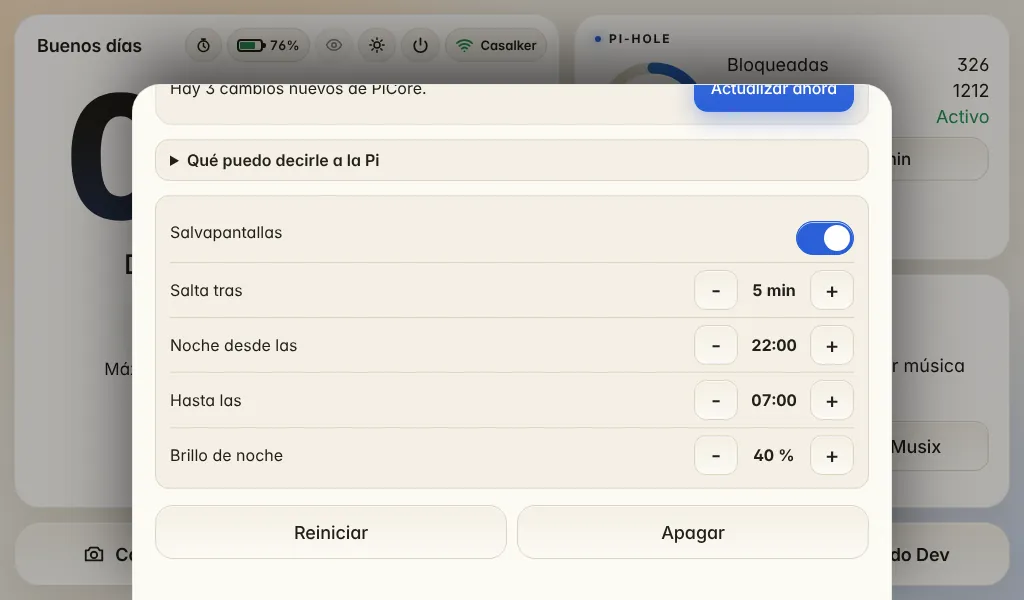
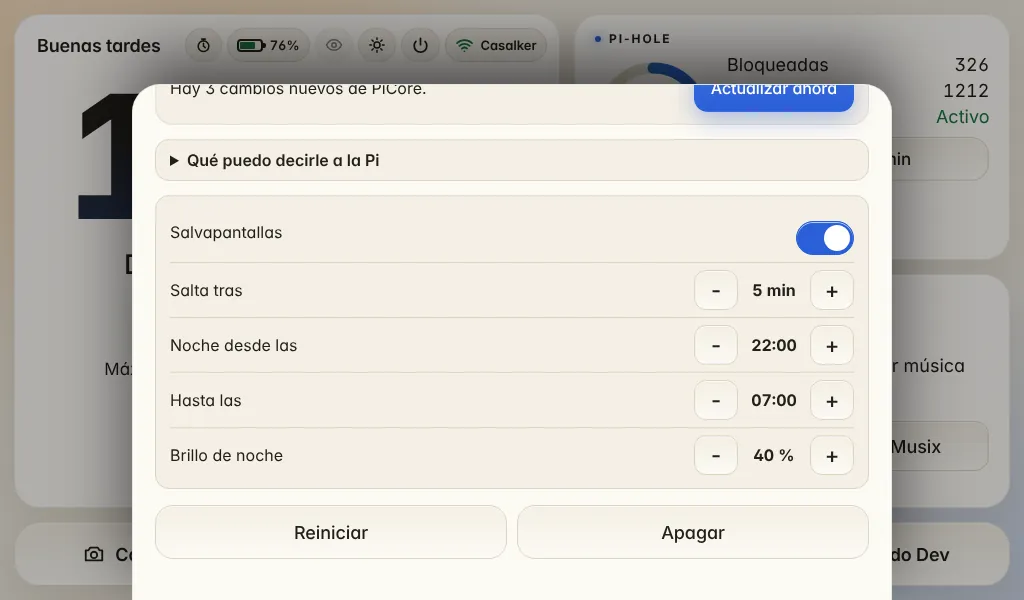
Capturas regeneradas con la interfaz actual (Iker con iconos, amanece y anochece)
Claude-Session: https://claude.ai/code/session_01AY8ERGutbRMABfxkh6spER

Changed region(s): [[0.0625, 0.15, 0.1562, 0.36], [0.9375, 0.09, 0.9688, 0.18], [0.0938, 0.06, 0.1562, 0.09]]

diff --git a/CHANGELOG.md b/CHANGELOG.md
@@ -38,6 +38,10 @@
 
 - Cubre lo añadido hoy: pestañas con flechas, «Volver arriba», barra de progreso, sección marcada, frases de ejemplo, tecla `?`, `aria-pressed` y `?say=`.
 
+## Capturas regeneradas con `make capturas`
+
+- Las imágenes de la web y de la documentación reflejan la interfaz actual: barra de Iker con iconos, tema coherente y «Amanece / Anochece» en la hoja del Tiempo. Siguen siendo capturas de la demo simulada.
+
 ## Voz: números grandes con palabras (ciento veinte, doscientos, dos mil)
 
 - Antes solo entendía hasta «cien»: «ciento veinte» daba 100. Ahora llega hasta el millar («cuánto es doscientos por tres», «dime un número entre cien y mil»). Las horas con letras («las veinte treinta») siguen igual. En el simulador las cifras grandes solo se entienden escritas con números.
